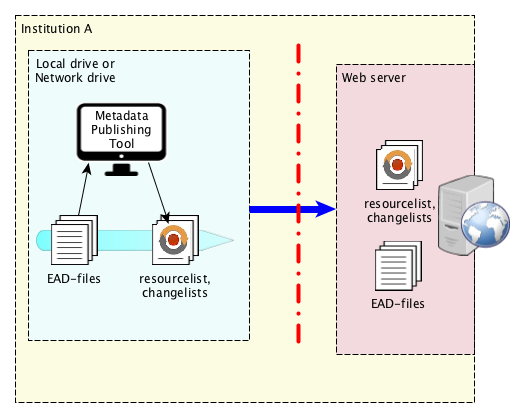
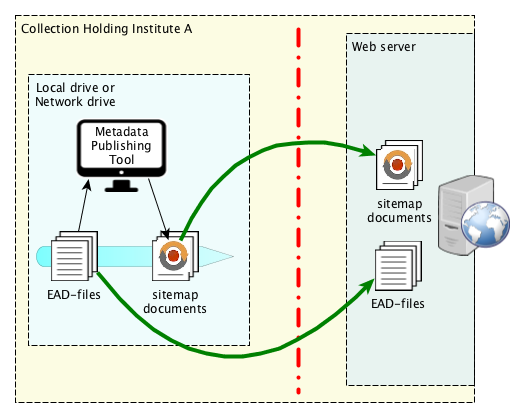
Update README 2

Changed region(s): [[0.3962, 0.0622, 0.9143, 0.9641], [0.0305, 0.0622, 0.5181, 0.8708], [0.6705, 0.0933, 0.7924, 0.1244]]

diff --git a/README.md b/README.md
@@ -24,8 +24,10 @@ the [Sitemap protocol](http://www.sitemaps.org/protocol.html), an xml-based form
 
 ![ResourceSync](img/resourcesync.png)
 
-_Fig. 1. The ResourceSync Framework Specification at work. Institutions exposing content and ResourceSync metadata.
-The central hub (in this case the EHRI Portal) is actively collecting resources, with the aid of sitemaps_
+_Fig. 1. The ResourceSync Framework Specification at work. Institutions exposing content and ResourceSync metadata
+on their web servers.
+The central hub (in this case the EHRI Portal) is actively collecting resources and keeping them
+in sync with the aid of sitemaps._
 
 The ResourceSync Framework Specification is a well defined protocol between _source_ and _destination_.
 It describes collecting resources and keeping them synchronized in an efficient way with the aid of sitemaps. In the 
@@ -39,9 +41,9 @@ by content-savvy, but maybe technically ignorant workers.
 
 ### Internal Logistics
 
-Comes in `Metadata Publishing Tool`. It is an application, a graphical user interface on a the above mentioned 
+Comes in `Metadata Publishing Tool`. It is an application, a graphical user interface solving the above mentioned 
 problems: the internal logistics, before the ResourceSync Framework Specification can do its job.
-It helps to configure, select and execute the necessary files on a work station and export them
+It helps to configure, select, filter and execute the necessary files on a work station and export them
 to the web server with a push of a button.  
 
 ![Internal](img/internal.png)
